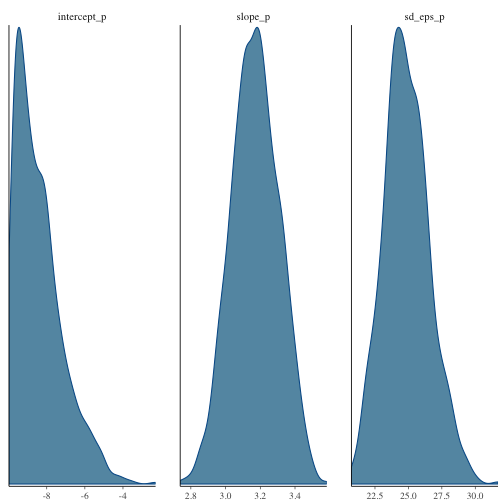
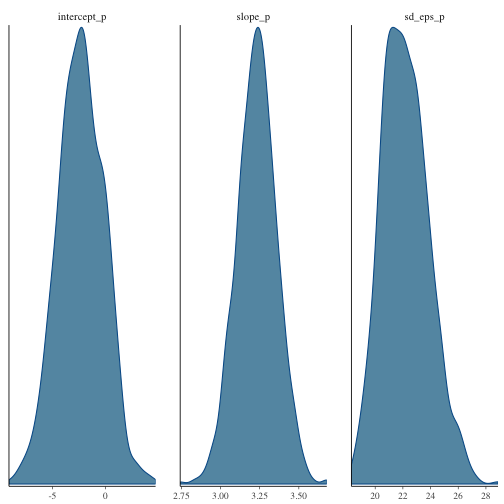
yeehaw

diff --git a/greta-playground.html b/greta-playground.html
@@ -17,7 +17,7 @@
 <meta property="og:description" content="This notebook contains one simple worked out example with the new - still in its infancy - PPL in R with a Tensorflow backend : https://greta-dev.github.io/greta/index.html For a more mature PPL in Python also with a tensorflow backend, see Edward. Basic linear regression. We will generate artificial data with known parameters, so that we can check if Greta gets it right later. Generating fake data to fit a model to length_of_data &lt;- 100 sd_eps &lt;- pi^exp(1) intercept &lt;- -5.0 slope &lt;- pi x &lt;- seq(-10*pi, 10*pi, length.out = length_of_data) y &lt;- intercept + slope*x + rnorm(n = length_of_data …" />
 <meta property="og:site_name" content="p. bhogale" />
 <meta property="og:article:author" content="pras" />
-<meta property="og:article:published_time" content="2018-03-14T12:23:32.964364+01:00" />
+<meta property="og:article:published_time" content="2018-03-14T12:30:42.364918+01:00" />
 <meta name="twitter:title" content="“greta playground” ">
 <meta name="twitter:description" content="This notebook contains one simple worked out example with the new - still in its infancy - PPL in R with a Tensorflow backend : https://greta-dev.github.io/greta/index.html For a more mature PPL in Python also with a tensorflow backend, see Edward. Basic linear regression. We will generate artificial data with known parameters, so that we can check if Greta gets it right later. Generating fake data to fit a model to length_of_data &lt;- 100 sd_eps &lt;- pi^exp(1) intercept &lt;- -5.0 slope &lt;- pi x &lt;- seq(-10*pi, 10*pi, length.out = length_of_data) y &lt;- intercept + slope*x + rnorm(n = length_of_data …">
 
@@ -91,7 +91,7 @@ ggplot<span class="p">(</span>data<span class="p">,</span> aes<span class="p">(<
 </pre></div>
 
 
-<p><img alt="center" src="$(pwd">figures/greta_playground/unnamed-chunk-2-1.png)</p>
+<p><img alt="center" src="$(pwd">/figures/greta_playground/unnamed-chunk-2-1.png)</p>
 <p>Given this data, we want to write Greta code to infer the model parameters. Since we really don&#8217;t know anything about the prior distributions of our parameters, we look at the experimental data and take rough, uniform&nbsp;priors. </p>
 <h3>Defining clueless priors for model&nbsp;parameters</h3>
 <div class="highlight"><pre><span></span>intercept_p <span class="o">&lt;-</span> uniform<span class="p">(</span><span class="m">-10</span><span class="p">,</span> <span class="m">10</span><span class="p">)</span>
@@ -122,12 +122,12 @@ param_draws <span class="o">&lt;-</span> mcmc<span class="p">(</span>our_model<s
 </pre></div>
 
 
-<p><img alt="center" src="$(pwd">figures/greta_playground/unnamed-chunk-6-1.png)</p>
+<p><img alt="center" src="$(pwd">/figures/greta_playground/unnamed-chunk-6-1.png)</p>
 <div class="highlight"><pre><span></span>mcmc_intervals<span class="p">(</span>param_draws<span class="p">)</span>
 </pre></div>
 
 
-<p><img alt="center" src="$(pwd">figures/greta_playground/unnamed-chunk-6-2.png)</p>
+<p><img alt="center" src="$(pwd">/figures/greta_playground/unnamed-chunk-6-2.png)</p>
 <p>By inspection, it looks like the <a href="https://arxiv.org/abs/1701.02434"><span class="caps">HMC</span></a> has reached some reasonable values for our model&nbsp;parameters. </p>
 <p>Explicitly, the mean estimates can be computed from the <code>param_draws</code> data structure, or via the <code>greta::opt</code> function.   </p>
 <div class="highlight"><pre><span></span>param_draws_df <span class="o">&lt;-</span> as_data_frame<span class="p">(</span>param_draws<span class="p">[[</span><span class="m">1</span><span class="p">]])</span>
@@ -140,7 +140,7 @@ param_estimates <span class="o">%&gt;%</span> <span class="kp">print</span><span
 <div class="highlight"><pre><span></span>## # A tibble: 1 x 3
 ##   intercept_p slope_p sd_eps_p
 ##         &lt;dbl&gt;   &lt;dbl&gt;    &lt;dbl&gt;
-## 1       -8.42    3.17     24.9
+## 1       -2.32    3.23     22.2
 </pre></div>
 
 
@@ -150,11 +150,12 @@ opt_params<span class="o">$</span>par <span class="o">%&gt;%</span> <span class=
 
 
 <div class="highlight"><pre><span></span>## intercept_p     slope_p    sd_eps_p 
-##   -8.784918    3.241806   23.292290
+##    2.503366    3.277133   20.958645
 </pre></div>
 
 
 <h3>Plotting against&nbsp;data</h3>
+<p>the <code>calculate()</code> function is available on the latest release of <code>greta</code> on&nbsp;github.</p>
             
             
             <hr/>
@@ -162,7 +163,7 @@ opt_params<span class="o">$</span>par <span class="o">%&gt;%</span> <span class=
         <section>
         <div class="span2" style="float:right;font-size:0.9em;">
             <h4>Published</h4>
-            <time pubdate="pubdate" datetime="2018-03-14T12:23:32.964364+01:00">Mar 14, 2018</time>
+            <time pubdate="pubdate" datetime="2018-03-14T12:30:42.364918+01:00">Mar 14, 2018</time>
             <h4>Category</h4>
             <a class="category-link" href="./categories.html#blogs-ref">blogs</a>
 <h4>Contact</h4>

diff --git a/output/greta-playground.html b/output/greta-playground.html
@@ -17,7 +17,7 @@
 <meta property="og:description" content="This notebook contains one simple worked out example with the new - still in its infancy - PPL in R with a Tensorflow backend : https://greta-dev.github.io/greta/index.html For a more mature PPL in Python also with a tensorflow backend, see Edward. Basic linear regression. We will generate artificial data with known parameters, so that we can check if Greta gets it right later. Generating fake data to fit a model to length_of_data &lt;- 100 sd_eps &lt;- pi^exp(1) intercept &lt;- -5.0 slope &lt;- pi x &lt;- seq(-10*pi, 10*pi, length.out = length_of_data) y &lt;- intercept + slope*x + rnorm(n = length_of_data …" />
 <meta property="og:site_name" content="p. bhogale" />
 <meta property="og:article:author" content="pras" />
-<meta property="og:article:published_time" content="2018-03-14T12:23:32.964364+01:00" />
+<meta property="og:article:published_time" content="2018-03-14T12:30:42.364918+01:00" />
 <meta name="twitter:title" content="“greta playground” ">
 <meta name="twitter:description" content="This notebook contains one simple worked out example with the new - still in its infancy - PPL in R with a Tensorflow backend : https://greta-dev.github.io/greta/index.html For a more mature PPL in Python also with a tensorflow backend, see Edward. Basic linear regression. We will generate artificial data with known parameters, so that we can check if Greta gets it right later. Generating fake data to fit a model to length_of_data &lt;- 100 sd_eps &lt;- pi^exp(1) intercept &lt;- -5.0 slope &lt;- pi x &lt;- seq(-10*pi, 10*pi, length.out = length_of_data) y &lt;- intercept + slope*x + rnorm(n = length_of_data …">
 
@@ -91,7 +91,7 @@ ggplot<span class="p">(</span>data<span class="p">,</span> aes<span class="p">(<
 </pre></div>
 
 
-<p><img alt="center" src="$(pwd">figures/greta_playground/unnamed-chunk-2-1.png)</p>
+<p><img alt="center" src="$(pwd">/figures/greta_playground/unnamed-chunk-2-1.png)</p>
 <p>Given this data, we want to write Greta code to infer the model parameters. Since we really don&#8217;t know anything about the prior distributions of our parameters, we look at the experimental data and take rough, uniform&nbsp;priors. </p>
 <h3>Defining clueless priors for model&nbsp;parameters</h3>
 <div class="highlight"><pre><span></span>intercept_p <span class="o">&lt;-</span> uniform<span class="p">(</span><span class="m">-10</span><span class="p">,</span> <span class="m">10</span><span class="p">)</span>
@@ -122,12 +122,12 @@ param_draws <span class="o">&lt;-</span> mcmc<span class="p">(</span>our_model<s
 </pre></div>
 
 
-<p><img alt="center" src="$(pwd">figures/greta_playground/unnamed-chunk-6-1.png)</p>
+<p><img alt="center" src="$(pwd">/figures/greta_playground/unnamed-chunk-6-1.png)</p>
 <div class="highlight"><pre><span></span>mcmc_intervals<span class="p">(</span>param_draws<span class="p">)</span>
 </pre></div>
 
 
-<p><img alt="center" src="$(pwd">figures/greta_playground/unnamed-chunk-6-2.png)</p>
+<p><img alt="center" src="$(pwd">/figures/greta_playground/unnamed-chunk-6-2.png)</p>
 <p>By inspection, it looks like the <a href="https://arxiv.org/abs/1701.02434"><span class="caps">HMC</span></a> has reached some reasonable values for our model&nbsp;parameters. </p>
 <p>Explicitly, the mean estimates can be computed from the <code>param_draws</code> data structure, or via the <code>greta::opt</code> function.   </p>
 <div class="highlight"><pre><span></span>param_draws_df <span class="o">&lt;-</span> as_data_frame<span class="p">(</span>param_draws<span class="p">[[</span><span class="m">1</span><span class="p">]])</span>
@@ -140,7 +140,7 @@ param_estimates <span class="o">%&gt;%</span> <span class="kp">print</span><span
 <div class="highlight"><pre><span></span>## # A tibble: 1 x 3
 ##   intercept_p slope_p sd_eps_p
 ##         &lt;dbl&gt;   &lt;dbl&gt;    &lt;dbl&gt;
-## 1       -8.42    3.17     24.9
+## 1       -2.32    3.23     22.2
 </pre></div>
 
 
@@ -150,11 +150,12 @@ opt_params<span class="o">$</span>par <span class="o">%&gt;%</span> <span class=
 
 
 <div class="highlight"><pre><span></span>## intercept_p     slope_p    sd_eps_p 
-##   -8.784918    3.241806   23.292290
+##    2.503366    3.277133   20.958645
 </pre></div>
 
 
 <h3>Plotting against&nbsp;data</h3>
+<p>the <code>calculate()</code> function is available on the latest release of <code>greta</code> on&nbsp;github.</p>
             
             
             <hr/>
@@ -162,7 +163,7 @@ opt_params<span class="o">$</span>par <span class="o">%&gt;%</span> <span class=
         <section>
         <div class="span2" style="float:right;font-size:0.9em;">
             <h4>Published</h4>
-            <time pubdate="pubdate" datetime="2018-03-14T12:23:32.964364+01:00">Mar 14, 2018</time>
+            <time pubdate="pubdate" datetime="2018-03-14T12:30:42.364918+01:00">Mar 14, 2018</time>
             <h4>Category</h4>
             <a class="category-link" href="./categories.html#blogs-ref">blogs</a>
 <h4>Contact</h4>

diff --git a/categories.html b/categories.html
@@ -89,7 +89,7 @@
                     <div class="accordion-inner">
                         <ul class="list-articles-category">
  
-                            <li><time pubdate="pubdate" datetime="2018-03-14T12:23:32.964364+01:00">Wed 14 March 2018</time><a href="./greta-playground.html"><span class="dquo">&#8220;</span>greta&nbsp;playground&#8221;  </a></li>
+                            <li><time pubdate="pubdate" datetime="2018-03-14T12:30:42.364918+01:00">Wed 14 March 2018</time><a href="./greta-playground.html"><span class="dquo">&#8220;</span>greta&nbsp;playground&#8221;  </a></li>
  
                             <li><time pubdate="pubdate" datetime="2018-03-14T11:09:16.783343+01:00">Wed 14 March 2018</time><a href="./about.html">about  </a></li>
                         </ul>

diff --git a/output/categories.html b/output/categories.html
@@ -89,7 +89,7 @@
                     <div class="accordion-inner">
                         <ul class="list-articles-category">
  
-                            <li><time pubdate="pubdate" datetime="2018-03-14T12:23:32.964364+01:00">Wed 14 March 2018</time><a href="./greta-playground.html"><span class="dquo">&#8220;</span>greta&nbsp;playground&#8221;  </a></li>
+                            <li><time pubdate="pubdate" datetime="2018-03-14T12:30:42.364918+01:00">Wed 14 March 2018</time><a href="./greta-playground.html"><span class="dquo">&#8220;</span>greta&nbsp;playground&#8221;  </a></li>
  
                             <li><time pubdate="pubdate" datetime="2018-03-14T11:09:16.783343+01:00">Wed 14 March 2018</time><a href="./about.html">about  </a></li>
                         </ul>

diff --git a/archives.html b/archives.html
@@ -65,7 +65,7 @@
             <h2 id="2018"><a href="#2018">2018</a></h2>
             <article>
             <a href="./greta-playground.html"><span class="dquo">&#8220;</span>greta&nbsp;playground&#8221;  </a>
-            <time pubdate="pubdate" datetime="2018-03-14T12:23:32.964364+01:00">Wed 14 March 2018</time>
+            <time pubdate="pubdate" datetime="2018-03-14T12:30:42.364918+01:00">Wed 14 March 2018</time>
             </article>
             <h2 id="2018"><a href="#2018">2018</a></h2>
             <article class="last-entry-of-year">

diff --git a/output/archives.html b/output/archives.html
@@ -65,7 +65,7 @@
             <h2 id="2018"><a href="#2018">2018</a></h2>
             <article>
             <a href="./greta-playground.html"><span class="dquo">&#8220;</span>greta&nbsp;playground&#8221;  </a>
-            <time pubdate="pubdate" datetime="2018-03-14T12:23:32.964364+01:00">Wed 14 March 2018</time>
+            <time pubdate="pubdate" datetime="2018-03-14T12:30:42.364918+01:00">Wed 14 March 2018</time>
             </article>
             <h2 id="2018"><a href="#2018">2018</a></h2>
             <article class="last-entry-of-year">

diff --git a/author/pras.html b/author/pras.html
@@ -68,7 +68,7 @@
                     posted in
                 <a href="../categories.html#blogs-ref">blogs</a>
                 <div class="recent-posts-time">
-                <time pubdate="pubdate" datetime="2018-03-14T12:23:32.964364+01:00">Wed 14 March 2018</time>
+                <time pubdate="pubdate" datetime="2018-03-14T12:30:42.364918+01:00">Wed 14 March 2018</time>
                 </div>
                 </section>
             </article>

diff --git a/category/blogs.html b/category/blogs.html
@@ -69,7 +69,7 @@
                     posted in
                 <a href="../categories.html#blogs-ref">blogs</a>
                 <div class="recent-posts-time">
-                <time pubdate="pubdate" datetime="2018-03-14T12:23:32.964364+01:00">Wed 14 March 2018</time>
+                <time pubdate="pubdate" datetime="2018-03-14T12:30:42.364918+01:00">Wed 14 March 2018</time>
                 </div>
                 </section>
             </article>

diff --git a/output/author/pras.html b/output/author/pras.html
@@ -68,7 +68,7 @@
                     posted in
                 <a href="../categories.html#blogs-ref">blogs</a>
                 <div class="recent-posts-time">
-                <time pubdate="pubdate" datetime="2018-03-14T12:23:32.964364+01:00">Wed 14 March 2018</time>
+                <time pubdate="pubdate" datetime="2018-03-14T12:30:42.364918+01:00">Wed 14 March 2018</time>
                 </div>
                 </section>
             </article>

diff --git a/output/category/blogs.html b/output/category/blogs.html
@@ -69,7 +69,7 @@
                     posted in
                 <a href="../categories.html#blogs-ref">blogs</a>
                 <div class="recent-posts-time">
-                <time pubdate="pubdate" datetime="2018-03-14T12:23:32.964364+01:00">Wed 14 March 2018</time>
+                <time pubdate="pubdate" datetime="2018-03-14T12:30:42.364918+01:00">Wed 14 March 2018</time>
                 </div>
                 </section>
             </article>

diff --git a/index.html b/index.html
@@ -69,7 +69,7 @@
                     posted in
                 <a href="./categories.html#blogs-ref">blogs</a>
                 <div class="recent-posts-time">
-                <time pubdate="pubdate" datetime="2018-03-14T12:23:32.964364+01:00">Wed 14 March 2018</time>
+                <time pubdate="pubdate" datetime="2018-03-14T12:30:42.364918+01:00">Wed 14 March 2018</time>
                 </div>
                 </section>
             </article>

diff --git a/output/index.html b/output/index.html
@@ -69,7 +69,7 @@
                     posted in
                 <a href="./categories.html#blogs-ref">blogs</a>
                 <div class="recent-posts-time">
-                <time pubdate="pubdate" datetime="2018-03-14T12:23:32.964364+01:00">Wed 14 March 2018</time>
+                <time pubdate="pubdate" datetime="2018-03-14T12:30:42.364918+01:00">Wed 14 March 2018</time>
                 </div>
                 </section>
             </article>
